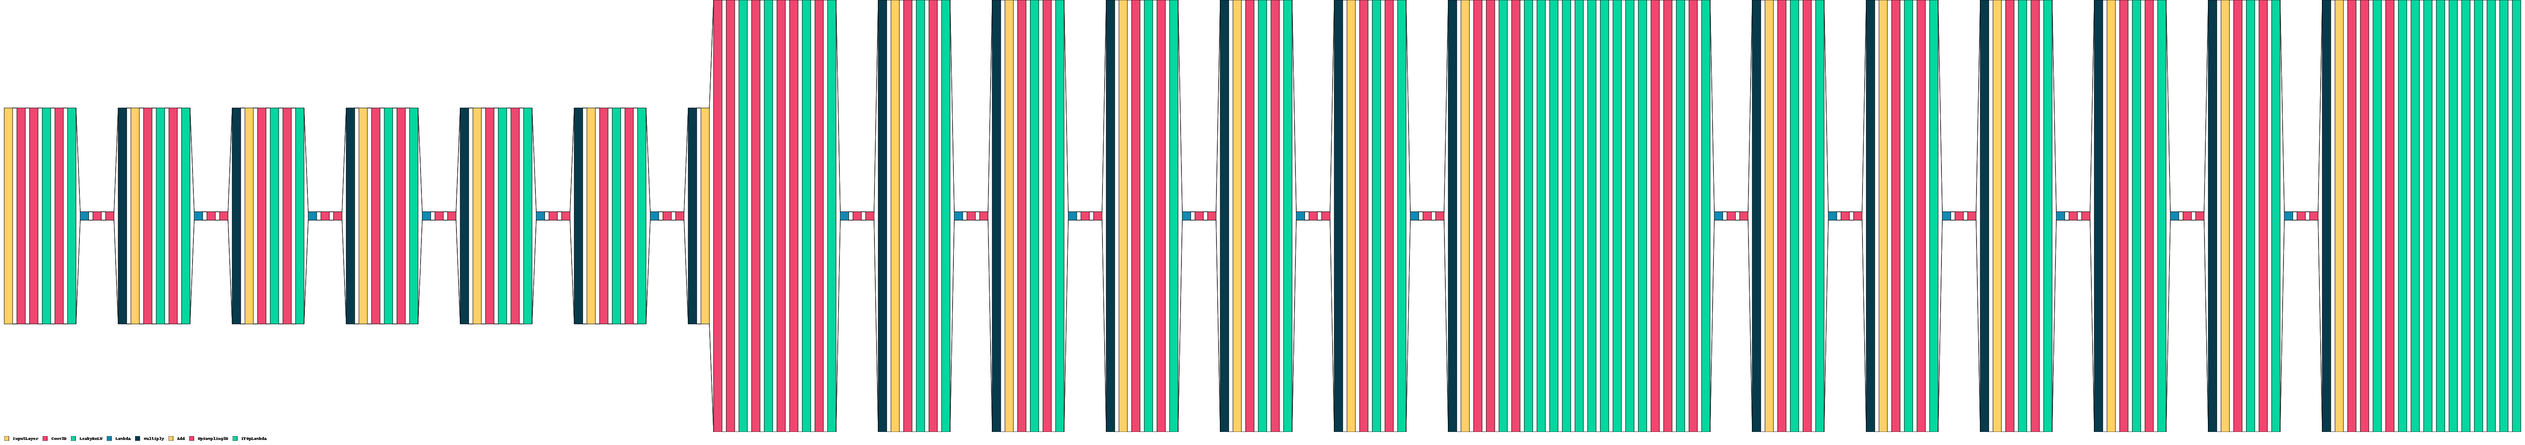
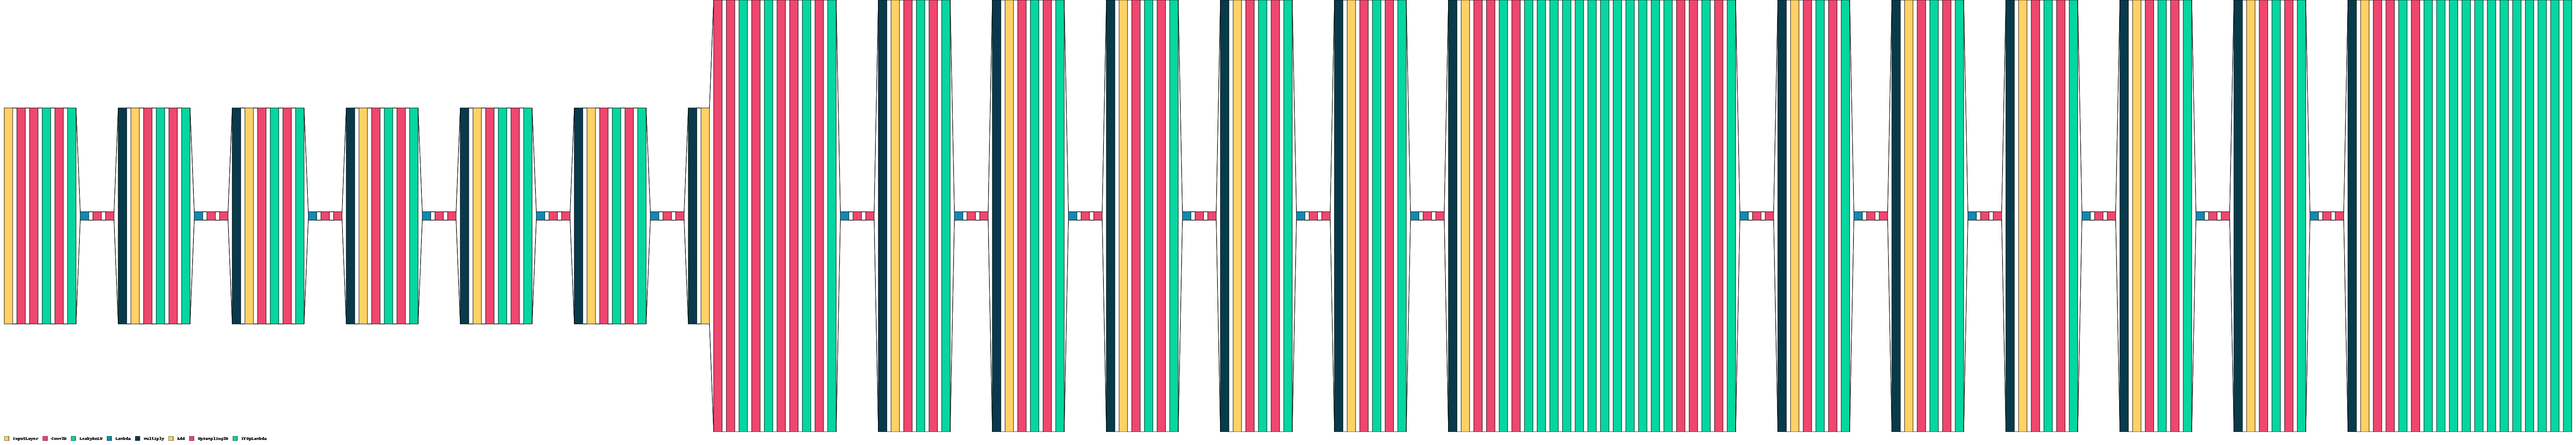
unrolling

diff --git a/models/UCAGAN.py b/models/UCAGAN.py
@@ -19,17 +19,22 @@ class UCAGAN(CAGAN):
         CAGAN.__init__(self, args)
 
     def generator(self, g_input):
-        x = rcan(g_input,
+        y = rcan(g_input,
                  n_rcab=self.args.n_RCAB,
                  n_res_group=self.args.n_ResGroup,
                  channel=self.args.n_channel)
-        initial_x = x
 
         self.data.psf = self.data.load_psf()
-        kernel_T = self.data.psf.transpose(1, 0, 2, 3, 4)
-        print(kernel_T.shape)
-        K_norm = tf.norm(tf.signal.fft3d(self.data.psf))
-        print('K norm:', K_norm)
+        kernel_T = self.data.psf.transpose(0, 2, 1, 3, 4)
+        # print(kernel_T.shape)
+
+        x_i = y
+        # x_i = tf.nn.conv3d(y, kernel_T,
+        #                  strides=[1] * 5,
+        #                  padding='SAME')
+
+        K_norm = tf.norm(tf.signal.fftshift(tf.signal.fft3d(self.data.psf)))
+        # print('K norm:', K_norm)
         # plt.imshow(self.data.psf)
         # plt.colorbar()
         # kernel_T = self.data.psf[:, :, :]
@@ -42,33 +47,37 @@ class UCAGAN(CAGAN):
         gamma = self.args.gamma
 
         for iteration in range(self.args.unrolling_iter):
-            x = rcan(x, scale=1,
+            output = rcan(x_i, scale=1,
                      n_rcab=self.args.n_RCAB,
                      n_res_group=self.args.n_ResGroup,
                      channel=self.args.n_channel)
             # x = x[:, :, :, :, 0]
-            x = tf.add(initial_x, x)
+            if gamma >= 0:
+                # print(x_i.shape)
+                output_2 = self.conv3d(y, kernel_T)
 
-            print(initial_x.shape)
-            y = tf.nn.conv3d(initial_x, kernel_T,
-                             strides=[1]*5,
-                             padding='SAME')
-            print(y.shape)
-            ya = tf.multiply(y, gamma)
-            x = tf.add(x, ya)
-            F = tf.signal.fft3d(tf.cast(x,
+                output_2 = tf.multiply(output_2, gamma)
+
+                output = tf.add(output, output_2)
+
+            output = tf.add(x_i, output)
+
+            output = tf.signal.fftshift(tf.signal.fft3d(tf.cast(output,
                                         tf.complex64,
                                         name=None),
-                                name=None)
-            x = tf.multiply(F, 1 / (1 + gamma * K_norm ** 2))
-            x = tf.cast(tf.signal.ifft3d(x,
-                                         name=None),
+                                name=None))
+
+            if gamma >= 0:
+                output = tf.multiply(output,
+                                     1 / (1 + gamma * K_norm ** 2))
+            x_i = tf.cast(tf.signal.fftshift(tf.signal.ifft3d(output,
+                                         name=None)),
                         tf.float32,
                         name=None)
             # x = np.expand_dims(x, axis=-1)
             gamma /= 2
 
-        self.g_output = x
+        self.g_output = x_i
 
         gen = Model(inputs=self.g_input,
                     outputs=self.g_output)
@@ -79,29 +88,32 @@ class UCAGAN(CAGAN):
         return gen
 
     def conv3d(self, x, psf):
-        x = tf.cast(x,
-                    tf.complex64,
-                    name=None)
-        psf = tf.cast(psf,
-                    tf.complex64,
-                    name=None)
-        print(psf.shape, x.shape)
-        psf = np.expand_dims(psf, axis=0)
-
-        print(psf.shape, x.shape)
+        # psf = np.expand_dims(psf, axis=0)
         if psf.shape[3] > x.shape[3]:
             psf = psf[:, :, :,
                   psf.shape[3] // 2 - (x.shape[3] - 1) // 2:
                   psf.shape[3] // 2 + (x.shape[3] - 1) // 2 + 1,
                   :]
         print(psf.shape, x.shape)
+        return tf.nn.conv3d(x,
+                            psf,
+                            strides=[1] * 5,
+                            padding='SAME')
 
-        input_fft = tf.signal.fft3d(x)
-        weights_fft = tf.signal.fft3d(psf)
-        conv_fft = tf.multiply(input_fft, weights_fft)
-        layer_output = tf.signal.ifft3d(conv_fft)
-
-        layer_output = tf.cast(layer_output,
-                    tf.float32,
-                    name=None)
-        return layer_output
+            # print(psf.shape, x.shape)
+            # if psf.shape[3] > x.shape[3]:
+            #     psf = psf[:, :, :,
+            #           psf.shape[3] // 2 - (x.shape[3] - 1) // 2:
+            #           psf.shape[3] // 2 + (x.shape[3] - 1) // 2 + 1,
+            #           :]
+            # print(psf.shape, x.shape)
+            #
+            # input_fft = tf.signal.fft3d(x)
+            # weights_fft = tf.signal.fft3d(psf)
+            # conv_fft = tf.multiply(input_fft, weights_fft)
+            # layer_output = tf.signal.ifft3d(conv_fft)
+            #
+            # layer_output = tf.cast(layer_output,
+            #             tf.float32,
+            #             name=None)
+            # return layer_output

diff --git a/utils/config.py b/utils/config.py
@@ -59,20 +59,20 @@ def parse_args():
     parser.add_argument("--ssim_loss", type=float, default=0)
     parser.add_argument("--alpha", type=float, default=0.25)  # gan_loss
     parser.add_argument("--beta", type=float, default=0)  # weight_wf_loss
-    parser.add_argument("--gamma", type=float, default=-.5)  # weight_unrolling gamma
+    parser.add_argument("--gamma", type=float, default=0.15)  # weight_unrolling gamma
     parser.add_argument("--unrolling_iter", type=int, default=2,
                         choices=range(6))
 
     # Generator Setup
     parser.add_argument("--start_lr", type=float, default=1e-4)
     parser.add_argument("--lr_decay_factor", type=float, default=0.5)
-    parser.add_argument("--train_generator_times", type=int, default=10)
+    parser.add_argument("--train_generator_times", type=int, default=5)
     parser.add_argument("--opt", type=str, default="adam")
 
     # Discriminator Setup
     parser.add_argument("--d_start_lr", type=float, default=1e-6)  # 2e-5
     parser.add_argument("--d_lr_decay_factor", type=float, default=0.5)
-    parser.add_argument("--train_discriminator_times", type=int, default=0)
+    parser.add_argument("--train_discriminator_times", type=int, default=1)
     parser.add_argument("--d_opt", type=str, default="adam")
 
     default_iterations = 5000

diff --git a/data/data.py b/data/data.py
@@ -192,7 +192,7 @@ class Data(ABC):
 
     def load_psf(self):
         raw_psf = loadmat(self.otf_path)
-        raw_psf = np.expand_dims(raw_psf['h'], axis=-1)
+        raw_psf = np.expand_dims(raw_psf['h'], axis=0)
         raw_psf = np.expand_dims(raw_psf, axis=-1)
-        print(np.shape(raw_psf))
+        # print(np.shape(raw_psf))
         return raw_psf
